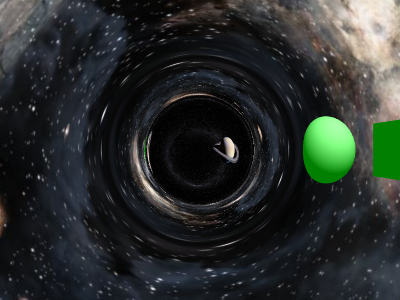
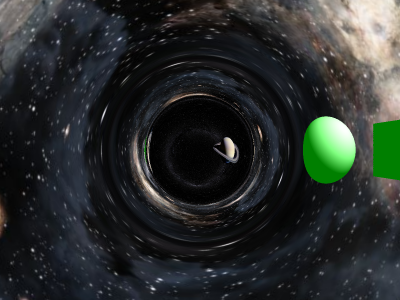
antialiasing precomputed rays and cube

Changed region(s): [[0.75, 0.39, 0.9, 0.57], [0.36, 0.48, 0.39, 0.54]]

diff --git a/src/renderer.cpp b/src/renderer.cpp
@@ -231,20 +231,6 @@ void render(RGBA *framebuffer, int outWidth, int outHeight, const ImageData &sph
                 offsetX = (gridX - 1) * 0.33f;
                 offsetY = (gridY - 1) * 0.33f;
 
-                if (sampleIdx == 1)
-                {
-                    offsetX = 0.25f;
-                }
-                else if (sampleIdx == 2)
-                {
-                    offsetY = 0.25f;
-                }
-                else if (sampleIdx == 3)
-                {
-                    offsetX = 0.25f;
-                    offsetY = 0.25f;
-                }
-
                 // Normalized device coordinates in [-1,1]
                 float ndcW = 2.0 * ((i + 0.5 + offsetX) / static_cast<float>(outWidth)) - 1.0;
                 float ndcH = 2.0 * ((j + 0.5 + offsetY) / static_cast<float>(outHeight)) - 1.0;

diff --git a/src/lighting.cpp b/src/lighting.cpp
@@ -56,13 +56,10 @@ glm::vec3 shadePixel(const Hit &hit, const ImageData &texture, const BumpMap &bu
     // const glm::vec3 V = glm::normalize(world_camera - glm::vec3(intersect));
 
     // Blend obj_D with textures
-<<<<<<< HEAD
-    const bool enableTextureMap = true;                    // HARDCODED
-    const FilterType textureFilter = FilterType::Bilinear; // HARDCODED
-=======
+
     const bool enableTextureMap = false;                   // HARDCODED
     const FilterType textureFilter = FilterType::Nearest; // HARDCODED
->>>>>>> cde73025f68ae6409584a0950138b6988e3841dc
+
 
     if (enableTextureMap && texture.width > 0)
     {
